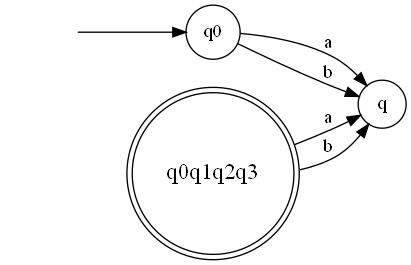
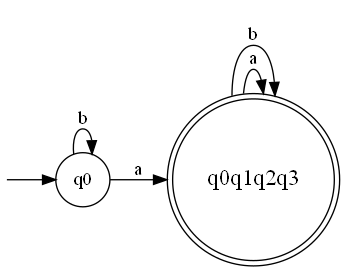
Add files via upload

diff --git a/minimiza.py b/minimiza.py
@@ -15,11 +15,10 @@ def minizacaoAFD():
     if not verifica:
 
         return
-    else:
 
-        func_transicaoAFD = functions.extrairDict(folAFD)
-        estados = functions.readEstados(folAFD)
-        estado_inicial, estados_finais, alfabeto = functions.extrairInfAF(folAFD, estado_inicial, estados_finais, alfabeto)
+    func_transicaoAFD = functions.extrairDict(folAFD)
+    estados = functions.readEstados(folAFD)
+    estado_inicial, estados_finais, alfabeto = functions.extrairInfAF(folAFD, estado_inicial, estados_finais, alfabeto)
 
 
     #informaçoes automato minimizado
@@ -36,9 +35,12 @@ def minizacaoAFD():
             
             if e1 != e2:
 
-                tabMinimiza[(e1, e2)] = (e1 in estados_finais) ^ (e2 in estados_finais) #tabela minimizaçao
+                tabMinimiza[(e1, e2)] = (e1 in estados_finais) != (e2 in estados_finais) #tabela minimizaçao
 
-    
+            else:
+
+                tabMinimiza[(e1, e2)] = True
+
     while valor:
 
         valor = False
@@ -46,73 +48,59 @@ def minizacaoAFD():
 
             if not diferente:
 
-                for simbolo in {simbolo for (estado, simbolo) in n_func_transicaoAFD.keys()}:
+                for simbolo in alfabeto:
 
-                    chegada1 = n_func_transicaoAFD.get((e1, simbolo), [None])[0]
-                    chegada2 = n_func_transicaoAFD.get((e2, simbolo), [None])[0]
+                    chegada1 = func_transicaoAFD.get((e1, simbolo))
+                    chegada2 = func_transicaoAFD.get((e2, simbolo))
 
-                    if chegada1 and chegada2 and (chegada1 != chegada2):
+                    if chegada1 and chegada2 and (chegada1[0] != chegada2[0]):
 
-                        if tabMinimiza.get((chegada1, chegada2), False) or tabMinimiza.get((chegada2, chegada1), False): #verifica se são estados diferentes e marcam eles 
+                        if chegada1 and chegada2:
 
-                            tabMinimiza[(e1, e2)] = True
-                            valor = True
-                            break
+                            n_chegada1 = combEstados.get(chegada1[0], chegada1[0])
+                            n_chegada2 = combEstados.get(chegada2[0], chegada2[0])
 
-    
-    for (s1, s2), diferente in tabMinimiza.items(): # estados iguais sao marcados
+                            if (n_chegada1 != n_chegada2):
 
+                                if tabMinimiza.get((n_chegada1, n_chegada2), False) or tabMinimiza.get((n_chegada2, n_chegada1), False):
+
+                                    tabMinimiza[(e1, e2)] = True
+                                    valor = True
+                                    break
+ 
+
+    for (s1, s2), diferente in tabMinimiza.items():
         if not diferente:
-
             combEstados[s1] = combEstados.get(s1, s1)
             combEstados[s2] = combEstados.get(s1, s1)
 
-    
    
     for estado in estados_finais: #atualiza a lista de estados finais do AFD
 
         novo_estado = combEstados.get(estado, estado)
-        n_estados_finais.append(novo_estado)
+
+        if novo_estado not in n_estados_finais:
+            n_estados_finais.append(novo_estado)
 
 
     
-    for (estado, simbolo), destinos in func_transicaoAFD.items(): #atualiza a lista de funçoes de transiçao do AFD
+    n_func_transicaoAFD = functions.atualiza_delta_AFD(func_transicaoAFD, combEstados, alfabeto)
 
+
+    for estado in estados:
         novo_estado = combEstados.get(estado, estado)
-        n_chegada = combEstados.get(destinos[0], destinos[0])
+        if novo_estado not in n_estados:
+            n_estados.append(novo_estado)
 
-        n_chegada_a = "".join(n_chegada)
-        n_func_transicaoAFD[(novo_estado, simbolo)] = n_chegada_a
-
-
-    for estado in estados: #atualiza a lista de estados do AFD
-
-        novo_estado = functions.estadoEquivalente(estado, combEstados)
-        n_estados.append(novo_estado)
+    n_estado_inicial = combEstados.get(estado_inicial, estado_inicial)
 
 
-    n_estado_inicial = functions.estadoEquivalente(estado_inicial, combEstados)
 
 
     #desenho do automato minimizado
-
-    automato = Digraph()  
-    automato.attr(rankdir='LR') 
-    automato.attr('node', shape='circle')
-
-    automato.node('', shape='none')
-    automato.edge('', n_estado_inicial)
-
-    for estado in n_estados:
-
-        if estado in estados_finais:
-
-            automato.node((estado), shape='doublecircle', fontsize='17')
-
-    for (estado, simbolo) in n_func_transicaoAFD:
-
-        destino = n_func_transicaoAFD[(estado, simbolo)]
-        automato.edge(estado, destino, label=simbolo)  # Adiciona as transições
-
+    func_transicao_lista = functions.converter_para_lista_transicoes(n_func_transicaoAFD)
+    automato = functions.desenhar_automato(n_estado_inicial, n_estados_finais, func_transicao_lista)
     automato.render(folAFD + ('AFMinimizado'), format='png', cleanup=True)
+
+
 

diff --git a/functions.py b/functions.py
@@ -29,8 +29,8 @@ def crEstados(folder, estados): #passa os estados para um arquivo
 
 def readEstados(folder): #le o arquivo de estados
 
-    arq = open(folder+ ('estados.txt'), 'r')
-    estados = arq.readlines()
+    with open(os.path.join(folder, 'estados.txt'), 'r') as arq:
+        estados = arq.readlines()
     estados = [item.strip() for item in estados]
     return estados
 
@@ -137,3 +137,17 @@ def desenhar_automato(estado_inicial, estados_finais, func_transicao): #desenha 
         automato.edge(estado_origem,estado_destino,label=simbolo) 
 
     return automato
+
+
+def atualiza_delta_AFD(func_transicaoAFD, combEstados, alfabeto):
+    n_func_transicaoAFD = {}
+    for (estado, simbolo), destinos in func_transicaoAFD.items():
+        novo_estado = combEstados.get(estado, estado)
+        if isinstance(destinos, list):
+            n_chegada = {combEstados.get(dest, dest) for dest in destinos}
+        else:
+            n_chegada = {combEstados.get(destinos, destinos)}
+        if len(n_chegada) != 1:
+            raise ValueError(f"Erro: Múltiplos destinos para ({novo_estado}, {simbolo}): {n_chegada}")
+        n_func_transicaoAFD[(novo_estado, simbolo)] = list(n_chegada)[0]
+    return n_func_transicaoAFD
